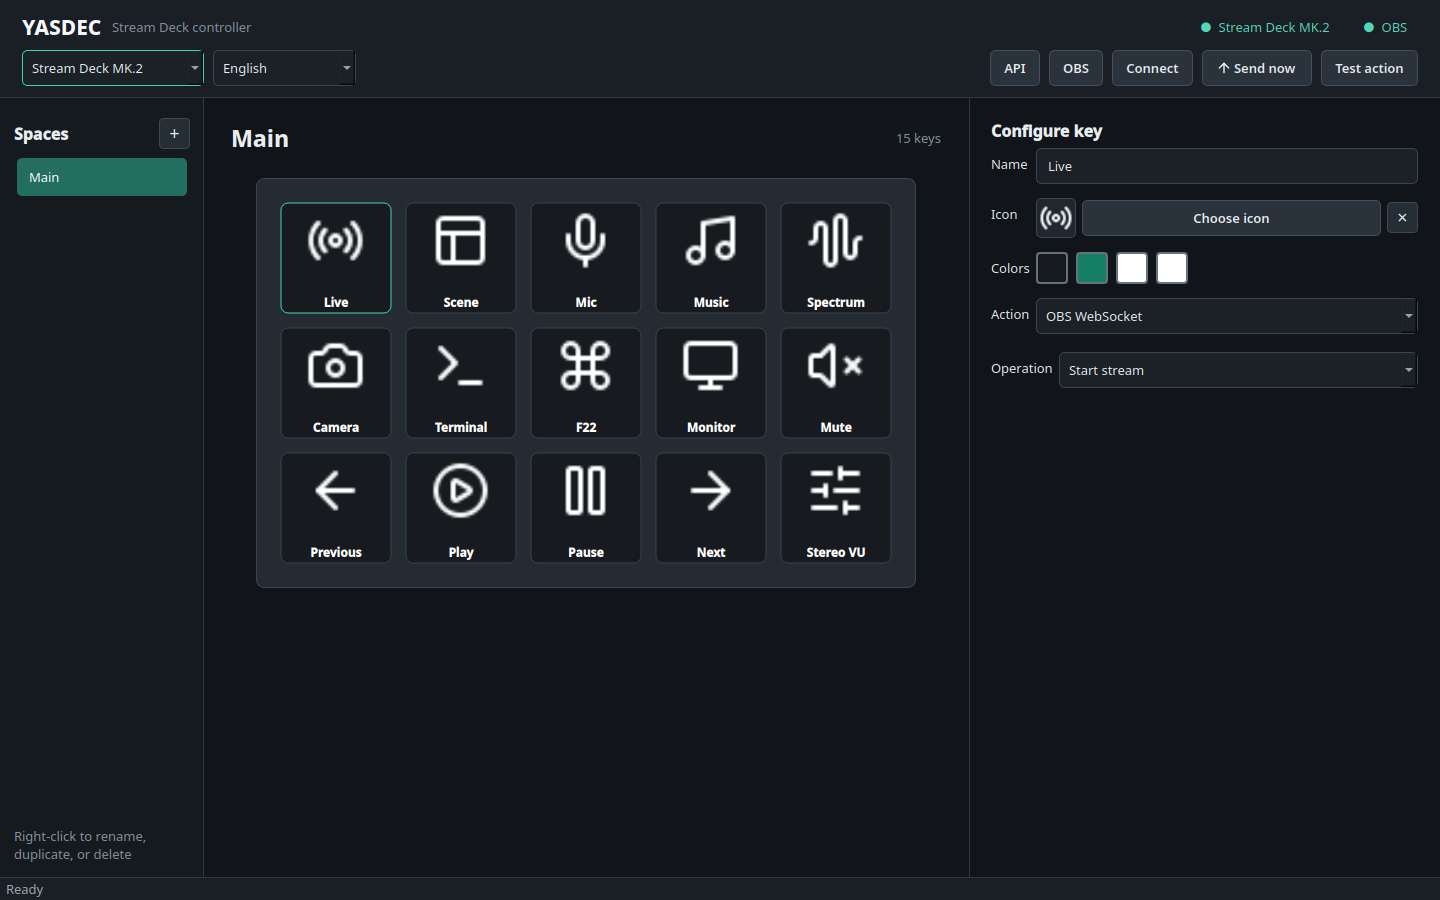
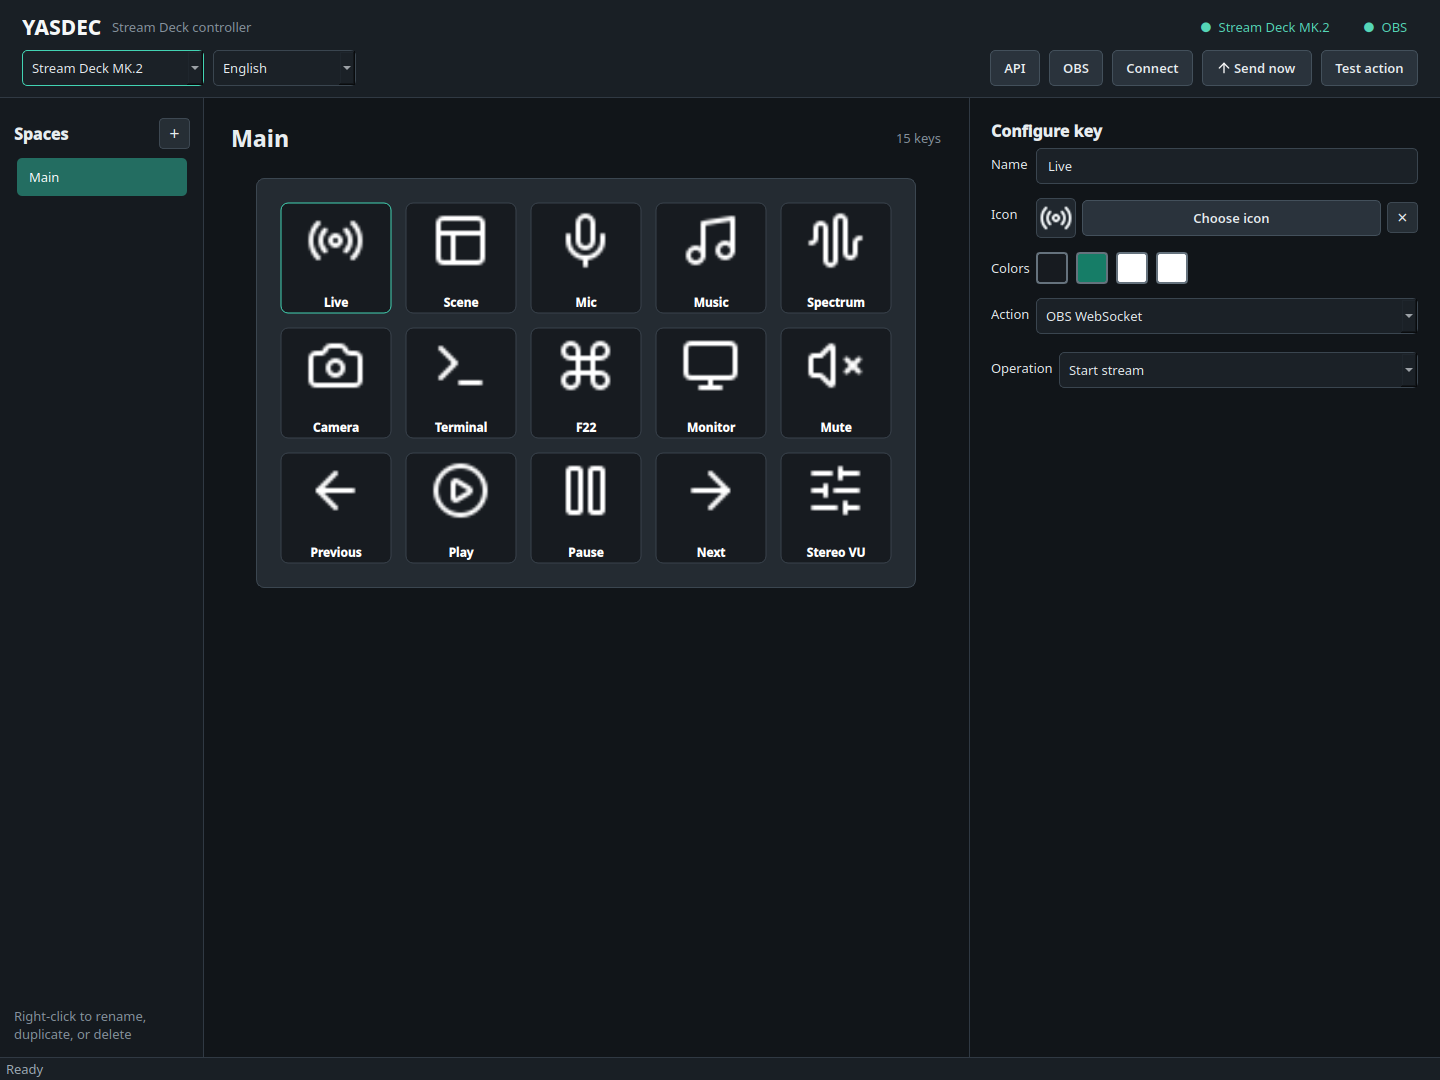
Release v1.0.5: spectrum falloff, fixed gain and visual guides

diff --git a/sdeck/widgets.py b/sdeck/widgets.py
@@ -484,8 +484,11 @@ class KeyInspector(QWidget):
         self.spectrum_target.currentIndexChanged.connect(self._store)
         self.spectrum_fps.valueChanged.connect(self._store)
         self.spectrum_grid.currentIndexChanged.connect(self._store)
+        self.spectrum_gain.valueChanged.connect(self._store)
+        self.spectrum_fall.valueChanged.connect(self._store)
         self.spectrum_preview.toggled.connect(self._store)
         self.spectrum_auto_scale.toggled.connect(self._store)
+        self.spectrum_auto_scale.toggled.connect(lambda checked: self.spectrum_gain.setEnabled(not checked))
         self.spectrum_auto_stop.toggled.connect(self._visual_option_changed)
         self.spectrum_silence_seconds.valueChanged.connect(self._store)
         self.vu_operation.currentIndexChanged.connect(self._vu_operation_changed)
@@ -599,6 +602,16 @@ class KeyInspector(QWidget):
         self.spectrum_preview = QCheckBox(tr("Preview on this key"))
         self.spectrum_preview.setToolTip(tr("Keeps capture active and displays a mini spectrum while full screen is off"))
         self.spectrum_auto_scale = QCheckBox(tr("Automatic gain"))
+        self.spectrum_gain = QSpinBox()
+        self.spectrum_gain.setRange(-12, 30)
+        self.spectrum_gain.setSuffix(" dB")
+        self.spectrum_gain.setToolTip(tr("Fixed visual gain; does not change audio volume or adapt to the music"))
+        self.spectrum_fall = QSpinBox()
+        self.spectrum_fall.setRange(0, 3000)
+        self.spectrum_fall.setSingleStep(100)
+        self.spectrum_fall.setValue(800)
+        self.spectrum_fall.setSuffix(" ms")
+        self.spectrum_fall.setToolTip(tr("Time to fall from full height to zero; 0 disables smoothing"))
         self.spectrum_auto_scale.setToolTip(tr("Scales each frame to use the available height instead of fixed dBFS levels"))
         self.spectrum_auto_stop = QCheckBox(tr("Auto-stop when silent"))
         self.spectrum_silence_seconds = QSpinBox()
@@ -617,6 +630,8 @@ class KeyInspector(QWidget):
         self.spectrum_form.addRow(tr("Speed"), self.spectrum_fps)
         self.spectrum_form.addRow(tr("Block style"), self.spectrum_grid)
         self.spectrum_form.addRow(tr("Scale"), self.spectrum_auto_scale)
+        self.spectrum_form.addRow(tr("Visual gain"), self.spectrum_gain)
+        self.spectrum_form.addRow(tr("Bar fall time"), self.spectrum_fall)
         self.spectrum_form.addRow(tr("Inactive view"), self.spectrum_preview)
         self.spectrum_form.addRow(tr("Silence"), self.spectrum_silence_controls)
         return page
@@ -966,6 +981,7 @@ class KeyInspector(QWidget):
         self.setEnabled(True)
         widgets = [self.label, self.background_color, self.active_background_color, self.text_color, self.icon_color, self.action, self.command, self.command_off, self.ws_url, self.payload_on, self.payload_off, self.audio_kind, self.audio_target, self.obs_operation, self.obs_scene, self.obs_group, self.obs_target, self.spectrum_operation, self.spectrum_kind, self.spectrum_target, self.spectrum_fps, self.spectrum_grid, self.spectrum_preview, self.spectrum_auto_scale, self.spectrum_auto_stop, self.spectrum_silence_seconds, self.vu_operation, self.vu_kind, self.vu_target, self.vu_fps, self.vu_preview, self.vu_auto_stop, self.vu_silence_seconds, self.vu_color_start, self.vu_color_end, self.target, self.keyboard_shortcut, self.media_control, self.toggle, self.timer]
         widgets.append(self.vu_segments)
+        widgets.extend((self.spectrum_gain, self.spectrum_fall))
         for widget in widgets:
             widget.blockSignals(True)
         self.label.setText(key.label)
@@ -995,6 +1011,8 @@ class KeyInspector(QWidget):
         self.spectrum_grid.setCurrentIndex(max(0, self.spectrum_grid.findData(max(1, min(6, key.spectrum_grid_size)))))
         self.spectrum_preview.setChecked(key.spectrum_preview)
         self.spectrum_auto_scale.setChecked(key.spectrum_auto_scale)
+        self.spectrum_gain.setValue(key.spectrum_gain_db)
+        self.spectrum_fall.setValue(key.spectrum_fall_ms)
         self.spectrum_auto_stop.setChecked(key.spectrum_auto_stop)
         self.spectrum_silence_seconds.setValue(key.spectrum_silence_seconds)
         self.vu_operation.setCurrentIndex(max(0, self.vu_operation.findData(key.vu_operation)))
@@ -1126,6 +1144,9 @@ class KeyInspector(QWidget):
         self.spectrum_form.setRowVisible(self.spectrum_grid, spectrum_start)
         self.spectrum_form.setRowVisible(self.spectrum_preview, spectrum_start)
         self.spectrum_form.setRowVisible(self.spectrum_auto_scale, spectrum_start)
+        self.spectrum_form.setRowVisible(self.spectrum_gain, spectrum_start)
+        self.spectrum_gain.setEnabled(not self.spectrum_auto_scale.isChecked())
+        self.spectrum_form.setRowVisible(self.spectrum_fall, spectrum_start)
         self.spectrum_form.setRowVisible(self.spectrum_silence_controls, spectrum_start)
         self.spectrum_silence_seconds.setEnabled(self.spectrum_auto_stop.isChecked())
         self.vu_form.setRowVisible(self.vu_kind, vu_start)
@@ -1171,6 +1192,8 @@ class KeyInspector(QWidget):
         self.key.spectrum_grid_size = int(self.spectrum_grid.currentData() or 1)
         self.key.spectrum_preview = self.spectrum_preview.isChecked()
         self.key.spectrum_auto_scale = self.spectrum_auto_scale.isChecked()
+        self.key.spectrum_gain_db = self.spectrum_gain.value()
+        self.key.spectrum_fall_ms = self.spectrum_fall.value()
         self.key.spectrum_auto_stop = self.spectrum_auto_stop.isChecked()
         self.key.spectrum_silence_seconds = self.spectrum_silence_seconds.value()
         self.key.vu_operation = str(self.vu_operation.currentData())

diff --git a/sdeck/spectrum.py b/sdeck/spectrum.py
@@ -28,6 +28,8 @@ class SpectrumController(QObject):
         self._stop = threading.Event()
         self._peak = 1.0
         self._auto_scale = False
+        self.gain_db = 0.0
+        self.fall_ms = 800
 
     def start(self, device: str, band_count: int, auto_scale: bool = False) -> bool:
         self.stop()
@@ -75,6 +77,7 @@ class SpectrumController(QObject):
         byte_count = self.SAMPLE_COUNT * 2
         frequencies = log_frequencies(band_count, 55.0, 7000.0)
         coefficients = [2.0 * math.cos(2.0 * math.pi * frequency / self.SAMPLE_RATE) for frequency in frequencies]
+        previous = [0.0] * band_count
         while not self._stop.is_set():
             data = read_exact(self._process.stdout, byte_count)
             if len(data) != byte_count:
@@ -87,7 +90,10 @@ class SpectrumController(QObject):
                 self._peak = max(frame_peak, self._peak * 0.94, 1.0)
                 levels = [min(1.0, max(0.0, math.log10(1.0 + power) / math.log10(1.0 + self._peak))) for power in powers]
             else:
-                levels = [spectrum_power_level(power, self.SAMPLE_COUNT) for power in powers]
+                levels = [spectrum_power_level(power, self.SAMPLE_COUNT, gain_db=self.gain_db) for power in powers]
+            previous = [release_level(old, new, self.SAMPLE_COUNT / self.SAMPLE_RATE, self.fall_ms / 1000.0)
+                        for old, new in zip(previous, levels)]
+            levels = previous
             self.levels_changed.emit(levels)
         if not self._stop.is_set():
             self.status.emit(tr("Analyzer capture ended"), False)
@@ -195,14 +201,21 @@ def pcm_signal_level(samples: tuple[int, ...], floor_db: float = -60.0) -> float
     return max(0.0, min(1.0, (dbfs - floor) / -floor))
 
 
-def spectrum_power_level(power: float, sample_count: int, floor_db: float = -60.0) -> float:
+def release_level(previous: float, current: float, elapsed: float, fall_seconds: float) -> float:
+    """Immediate attack with a linear full-scale fall time, independent of FPS."""
+    if fall_seconds <= 0:
+        return current
+    return max(current, previous - max(0.0, elapsed) / fall_seconds, 0.0)
+
+
+def spectrum_power_level(power: float, sample_count: int, floor_db: float = -60.0, gain_db: float = 0.0) -> float:
     """Map Hann-windowed Goertzel power to a fixed dBFS display level."""
     if power <= 0.0 or sample_count <= 0:
         return 0.0
     # A Hann window has a coherent gain of roughly 0.5.  Recover the tone
     # amplitude from the DFT magnitude before converting it to dBFS.
     amplitude = 4.0 * math.sqrt(power) / sample_count
-    dbfs = 20.0 * math.log10(max(1.0, amplitude) / 32768.0)
+    dbfs = 20.0 * math.log10(max(1.0, amplitude) / 32768.0) + gain_db
     floor = min(-1.0, float(floor_db))
     return max(0.0, min(1.0, (dbfs - floor) / -floor))
 

diff --git a/packaging/generate-screenshots.py b/packaging/generate-screenshots.py
@@ -21,6 +21,7 @@ from sdeck.app import STYLESHEET
 from sdeck.i18n import set_language
 from sdeck.model import ACTION_AUDIO, ACTION_KEYBOARD, ACTION_OBS, ACTION_SHELL, ACTION_SPECTRUM, ACTION_VU, AppConfig
 from sdeck.window import MainWindow
+from sdeck.spectrum import release_level
 
 
 OUTPUT_DIR = PROJECT_DIR / "docs" / "screenshots"
@@ -112,7 +113,7 @@ def main(_audio_refresh, _configure_obs, _connect_device) -> int:
         config_path = Path(directory) / "config.json"
         sample_config(config_path)
         window = MainWindow(config_path, app_icon)
-        window.resize(1440, 900)
+        window.resize(1440, 1080)
         window.show()
         settle(app, window)
 
@@ -134,6 +135,24 @@ def main(_audio_refresh, _configure_obs, _connect_device) -> int:
         settle(app, window)
         save(window, "yasdec-spectrum-lcd.png")
 
+        analyzer_key.spectrum_grid_size = 6
+        analyzer_key.spectrum_gain_db = 12
+        analyzer_key.spectrum_fall_ms = 1200
+        window.select_key(4)
+        # A deterministic display snapshot; no audio or hardware is accessed.
+        window.spectrum_levels = [0.35, 0.48, 0.62, 0.78, 0.9, 0.84, 0.72, 0.65,
+                                  0.59, 0.67, 0.79, 0.87, 0.93, 0.81, 0.69, 0.58,
+                                  0.47, 0.55, 0.66, 0.76, 0.84, 0.72, 0.62, 0.52,
+                                  0.44, 0.57, 0.69, 0.61, 0.49, 0.38]
+        window._draw_spectrum()
+        settle(app, window)
+        save(window, "yasdec-spectrum-dense.png")
+        window.spectrum_levels = [release_level(level, 0.0, 0.3, 1.2)
+                                  for level in window.spectrum_levels]
+        window._draw_spectrum()
+        settle(app, window)
+        save(window, "yasdec-spectrum-release.png")
+
         vu_key = window.config.current().keys[14]
         window.runner.spectrum_active = False
         window.runner.spectrum_fullscreen = False
@@ -145,6 +164,12 @@ def main(_audio_refresh, _configure_obs, _connect_device) -> int:
         window._draw_vu()
         settle(app, window)
         save(window, "yasdec-vu-stereo.png")
+
+        vu_key.vu_segments = 8
+        window.select_key(14)
+        window._draw_vu()
+        settle(app, window)
+        save(window, "yasdec-vu-dense.png")
 
         window.runner.close()
         window.deck.close()

diff --git a/tests/test_spectrum.py b/tests/test_spectrum.py
@@ -1,10 +1,31 @@
 import math
 import unittest
 
-from sdeck.spectrum import SpectrumController, capture_command, goertzel, log_frequencies, spectrum_power_level, stereo_vu_levels
+from sdeck.spectrum import SpectrumController, capture_command, goertzel, log_frequencies, release_level, spectrum_power_level, stereo_vu_levels
 
 
 class SpectrumMathTests(unittest.TestCase):
+    def test_bar_release_is_slow_but_attack_is_immediate(self):
+        self.assertEqual(release_level(0.2, 0.9, 0.1, 0.8), 0.9)
+        self.assertAlmostEqual(release_level(1.0, 0.0, 0.2, 0.8), 0.75)
+        self.assertEqual(release_level(0.2, 0.3, 0.2, 0.8), 0.3)
+        self.assertEqual(release_level(1.0, 0.0, 0.1, 0), 0.0)
+        level = 1.0
+        for _ in range(8):
+            level = release_level(level, 0.0, 0.1, 0.8)
+        self.assertAlmostEqual(level, 0.0)
+        self.assertAlmostEqual(release_level(1.0, 0.0, 0.8, 0.8), level)
+
+    def test_visual_gain_is_a_fixed_db_offset_and_silence_stays_zero(self):
+        n = 1024
+        for db in (-45, -30):
+            amplitude = 32768 * 10 ** (db / 20)
+            power = (amplitude * n / 4) ** 2
+            base = spectrum_power_level(power, n)
+            boosted = spectrum_power_level(power, n, gain_db=12)
+            self.assertAlmostEqual(boosted - base, 12 / 60)
+        self.assertEqual(spectrum_power_level(0, n, gain_db=30), 0)
+
     def test_fixed_spectrum_scale_tracks_dbfs_without_auto_gain(self) -> None:
         sample_rate = 16_000
         sample_count = 1024

diff --git a/sdeck/actions.py b/sdeck/actions.py
@@ -151,6 +151,8 @@ class ActionRunner(QObject):
             self.obs.trigger(key.obs_operation, key.obs_scene, key.obs_target, desired_state, key.obs_group)
             executed = False
         elif key.action == ACTION_SPECTRUM:
+            self.spectrum.gain_db = key.spectrum_gain_db
+            self.spectrum.fall_ms = key.spectrum_fall_ms
             if key.spectrum_operation == "start":
                 if self.spectrum_fullscreen and self.spectrum_key is key:
                     self.dismiss_visualizer()
@@ -475,6 +477,8 @@ class ActionRunner(QObject):
             candidate = self.spectrum_key
             if candidate is None:
                 return
+            self.spectrum.gain_db = candidate.spectrum_gain_db
+            self.spectrum.fall_ms = candidate.spectrum_fall_ms
             device = self.audio.capture_device(candidate.spectrum_kind, candidate.spectrum_target)
             band_count = self._spectrum_columns * max(1, min(6, candidate.spectrum_grid_size))
             if not device:
@@ -506,6 +510,8 @@ class ActionRunner(QObject):
             return
         if not candidate.spectrum_auto_stop:
             self._spectrum_silence_stopped.discard(id(candidate))
+        self.spectrum.gain_db = candidate.spectrum_gain_db
+        self.spectrum.fall_ms = candidate.spectrum_fall_ms
         device = self.audio.capture_device(candidate.spectrum_kind, candidate.spectrum_target)
         band_count = self._spectrum_columns * max(1, min(6, candidate.spectrum_grid_size))
         if not device:

diff --git a/sdeck/app.py b/sdeck/app.py
@@ -36,8 +36,8 @@ QTabBar::tab:selected { background: #236d61; color: white; }
 #deckTitle { font-size: 23px; font-weight: 750; }
 #deckFrame { background: #242b32; border: 1px solid #3b4650; border-radius: 8px; }
 #iconPreview { background: #20272e; border: 1px solid #3b4650; border-radius: 5px; color: #87939e; font-size: 20px; }
-QLineEdit, QPlainTextEdit, QComboBox { background: #1b2127; border: 1px solid #3a454f; border-radius: 5px; padding: 7px 9px; selection-background-color: #147b68; }
-QLineEdit:focus, QPlainTextEdit:focus, QComboBox:focus { border-color: #42d3b3; }
+QLineEdit, QPlainTextEdit, QComboBox, QSpinBox { background: #1b2127; border: 1px solid #3a454f; border-radius: 5px; padding: 7px 9px; selection-background-color: #147b68; }
+QLineEdit:focus, QPlainTextEdit:focus, QComboBox:focus, QSpinBox:focus { border-color: #42d3b3; }
 QPushButton { background: #2a333c; border: 1px solid #43505b; border-radius: 5px; padding: 8px 13px; font-weight: 600; }
 QPushButton:hover { background: #34404a; border-color: #647482; }
 QPushButton:pressed { background: #147b68; }

diff --git a/sdeck/model.py b/sdeck/model.py
@@ -109,6 +109,8 @@ class KeyConfig:
     spectrum_preview: bool = False
     spectrum_grid_size: int = 1
     spectrum_auto_scale: bool = False
+    spectrum_gain_db: int = 0
+    spectrum_fall_ms: int = 800
     spectrum_auto_stop: bool = False
     spectrum_silence_seconds: int = 30
     vu_operation: str = "start"
@@ -148,6 +150,11 @@ class KeyConfig:
             values["vu_segments"] = max(3, min(8, int(values.get("vu_segments", 3))))
         except (TypeError, ValueError):
             values["vu_segments"] = 3
+        for name, low, high, default in (("spectrum_gain_db", -12, 30, 0), ("spectrum_fall_ms", 0, 3000, 800)):
+            try:
+                values[name] = max(low, min(high, int(values.get(name, default))))
+            except (TypeError, ValueError):
+                values[name] = default
         if values.get("media_control", "PLAYPAUSE") not in MEDIA_CONTROLS:
             values["media_control"] = "PLAYPAUSE"
         return cls(**values)

diff --git a/tests/test_visualizer_resolution.py b/tests/test_visualizer_resolution.py
@@ -9,6 +9,14 @@ from sdeck.window import MainWindow
 
 
 class VisualizerResolutionTests(unittest.TestCase):
+    def test_response_settings_round_trip_and_defaults(self):
+        key = KeyConfig(spectrum_gain_db=12, spectrum_fall_ms=1200)
+        restored = KeyConfig.from_dict(key.to_dict())
+        self.assertEqual((restored.spectrum_gain_db, restored.spectrum_fall_ms), (12, 1200))
+        default = KeyConfig.from_dict({})
+        self.assertEqual((default.spectrum_gain_db, default.spectrum_fall_ms), (0, 800))
+        self.assertFalse(default.spectrum_auto_scale)
+
     def test_resolution_settings_round_trip_and_old_defaults(self):
         key = KeyConfig(spectrum_grid_size=6, vu_segments=8)
         restored = KeyConfig.from_dict(key.to_dict())

diff --git a/sdeck/__init__.py b/sdeck/__init__.py
@@ -1,3 +1,3 @@
 """YASDEC desktop controller."""
 
-__version__ = "1.0.4"
+__version__ = "1.0.5"

diff --git a/README.md b/README.md
@@ -287,6 +287,30 @@ the look of vintage audio displays.
 Spectrum levels use a fixed −60 dBFS to 0 dBFS scale by default, so the display
 represents the actual signal level. **Automatic gain** can be enabled per key
 when consistently filling the available height is preferred instead.
+With automatic gain off, **Visual gain** adds a fixed −12 to +30 dB display
+offset without changing playback volume or adapting to each song. Try +12 dB
+if the bars sit too low. **Bar fall time** controls a fast-attack, slow-release
+effect: the default 800 ms is the time to fall from full height to zero.
+Set it to 0 for immediate readings or increase it up to 3000 ms for a slower
+fall. The response follows audio sample time, independently of display FPS,
+and does not affect the raw signal used for silence detection.
+
+#### Example: dense vintage spectrum
+
+Select **LCD cells · 6 × 6**, turn **Automatic gain** off, set **Visual gain** to
+**+12 dB**, and choose **1200 ms** for **Bar fall time**. This is a starting
+point for a slower, fuller display with fixed sensitivity. Gain only affects
+the display, and values above the fixed range clip at the top.
+
+| 6 × 6 cells per key | The same display after 300 ms of silence |
+| --- | --- |
+| ![Dense spectrum with fixed gain and slow fall controls](docs/screenshots/yasdec-spectrum-dense.png) | ![Spectrum bars falling gradually while retaining dark cell gaps](docs/screenshots/yasdec-spectrum-release.png) |
+
+These are sample levels rendered by the Qt editor; the second image applies
+the actual release calculation to the first. It illustrates gradual bar decay,
+not floating peak markers. This release adds no separate peak markers, and
+the new gain and fall controls apply to Spectrum, not Stereo VU.
+
 Recommended frame rates are 12 FPS for Mini, 8 FPS for Original/MK.2, 10 FPS
 for Neo, and 4 FPS for XL. Rendering happens in a worker thread, retains only
 the newest pending frame, and skips unchanged keys.
@@ -315,6 +339,12 @@ full-screen view and any mini preview, and remains stopped until its start key
 is pressed again.
 
 ![Horizontal stereo VU meter](docs/screenshots/yasdec-vu-stereo.png)
+
+For a denser vintage meter, set **Segments per key** to **8**. On this 5 × 3
+layout, each channel has 40 separated segments; the empty middle row keeps
+the channels visually distinct.
+
+![Stereo VU with eight separated segments per key](docs/screenshots/yasdec-vu-dense.png)
 
 ### Shell
 
